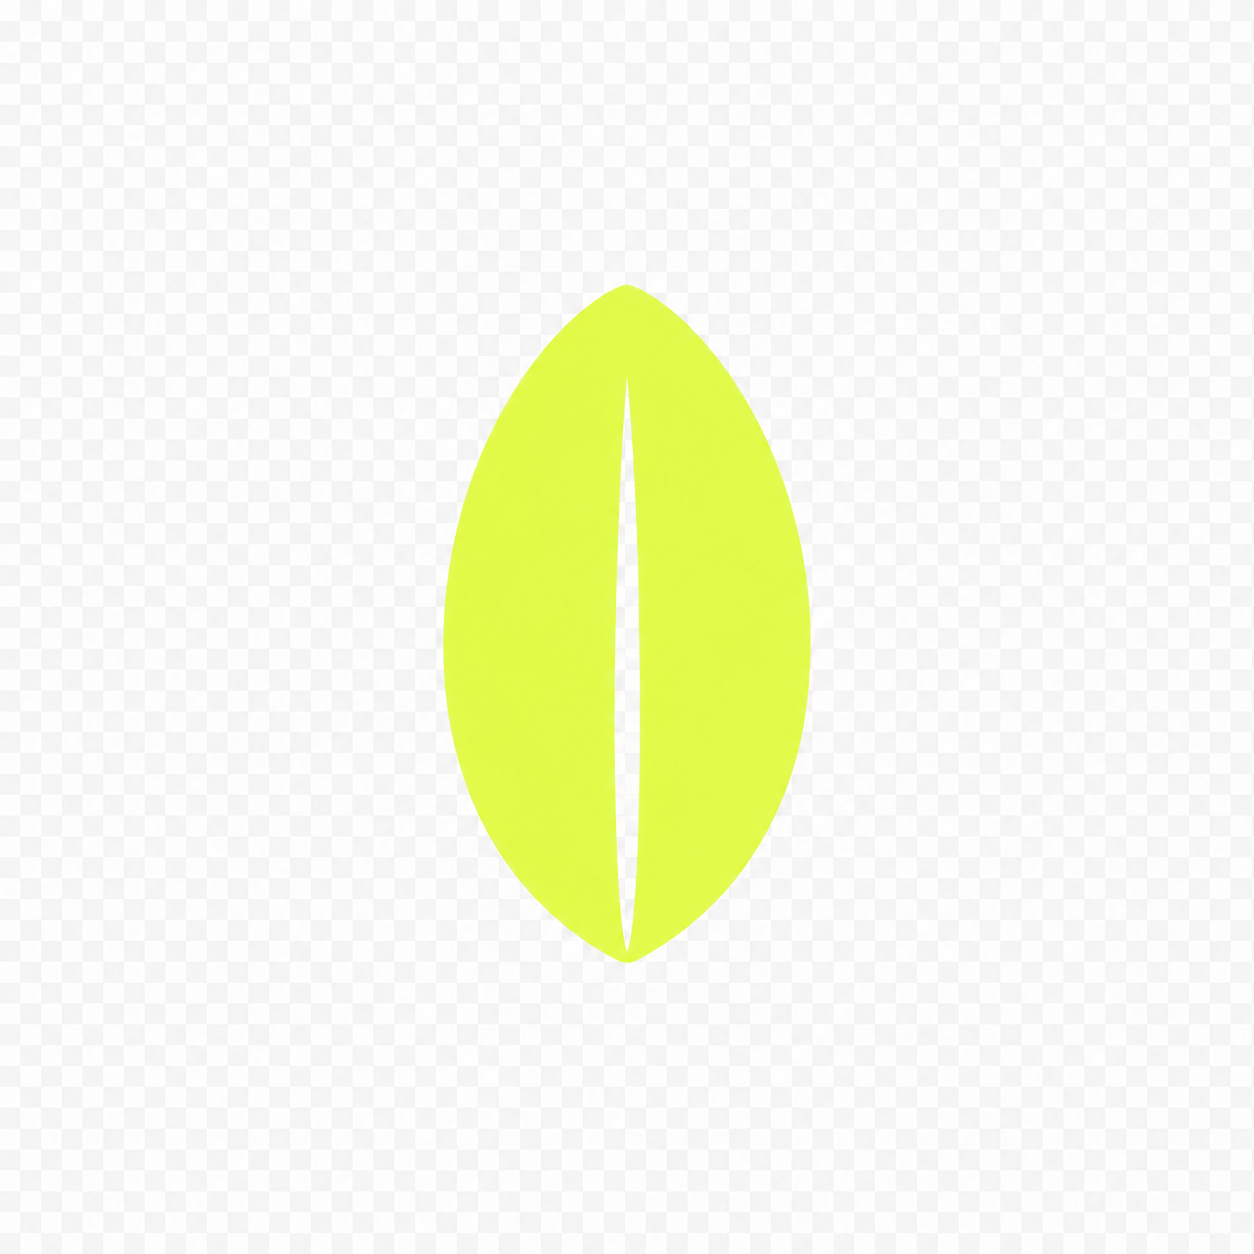
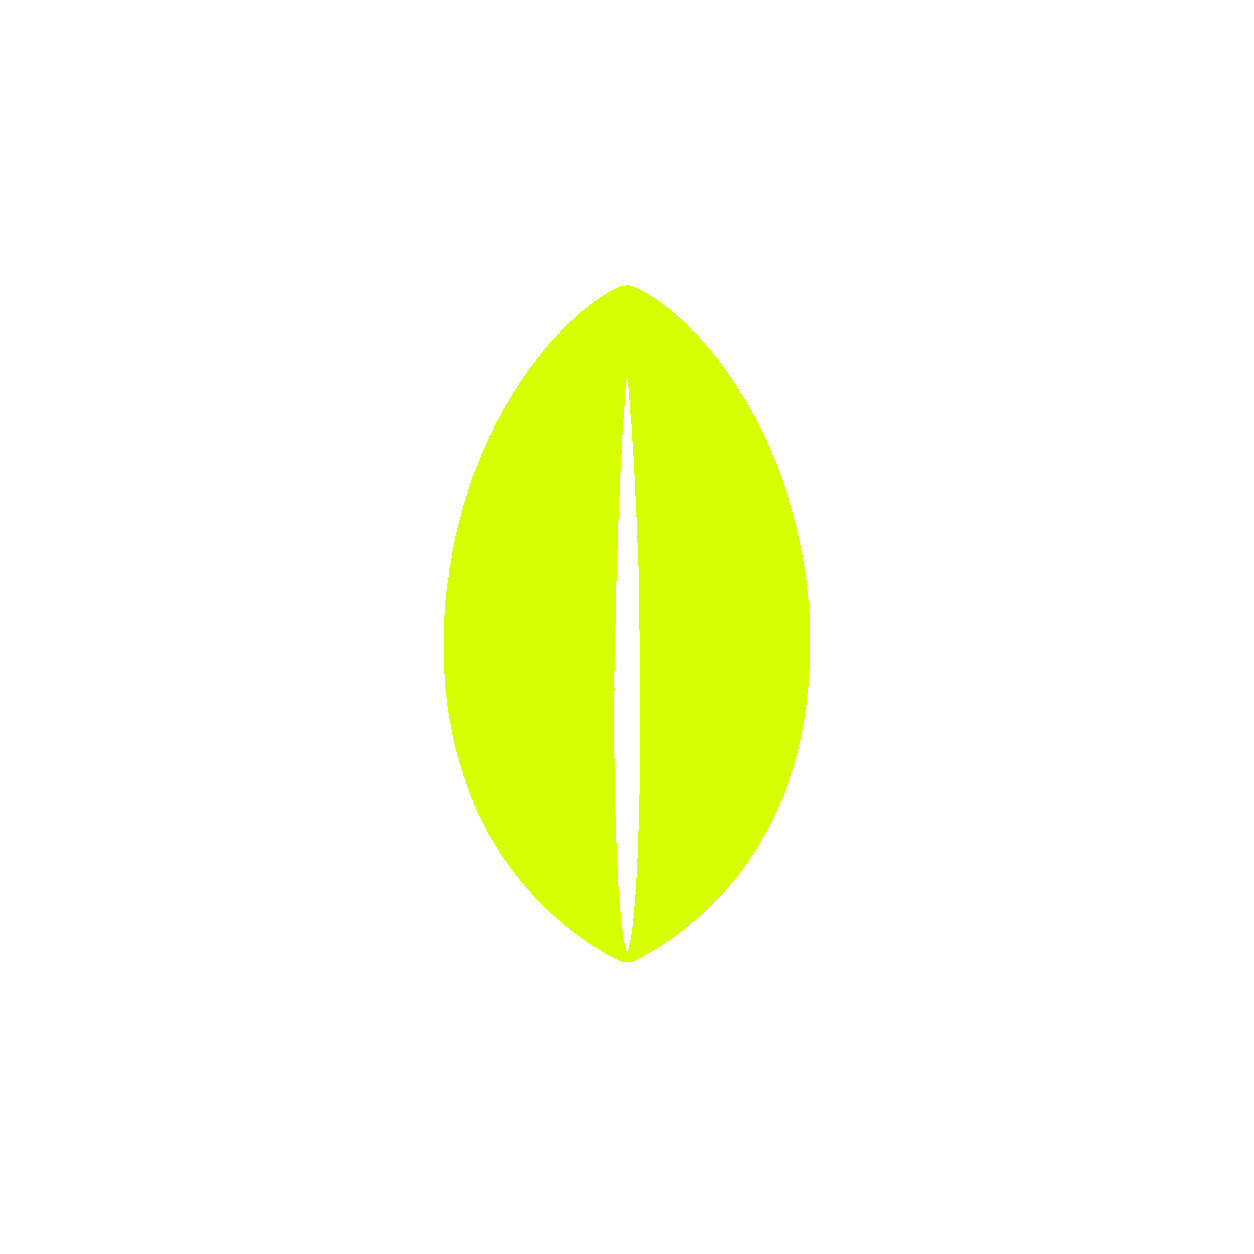
assets: replace ground_*.png with proper RGBA versions
The original ground_*.png batch was exported as opaque PNG-24 (RGB,
no alpha) with the design-tool checkerboard pattern baked into the
pixel data. On the live app they showed grey-and-white squares
behind the lime sprout/wordmark.

User supplied corrected *_transparent.png variants — all RGBA with
real alpha channels and ~10KB each (vs ~900KB checkerboard-laden
originals). Renamed to drop the _transparent suffix, overwriting
the broken files.

ground_thumbnail.png had no transparent variant supplied (and is
spec'd to have a baked dark background for the manifest "any" and
"maskable" icon purposes). Regenerated it by compositing the new
transparent ground_icon onto #0a0a0a at 1024x1024.

Cache bumped ground-v1 -> ground-v2 so devices refetch on next visit.

Changed region(s): [[0.3421, 0.2177, 0.6531, 0.7775]]

diff --git a/OneSignalSDKWorker.js b/OneSignalSDKWorker.js
@@ -2,7 +2,7 @@
 importScripts('https://cdn.onesignal.com/sdks/web/v16/OneSignalSDK.sw.js');
 
 // PWA cache
-const CACHE = 'ground-v1';
+const CACHE = 'ground-v2';
 
 self.addEventListener('install', e => {
   e.waitUntil(caches.open(CACHE).then(c => c.addAll(['./', './ground_logo.png'])));
